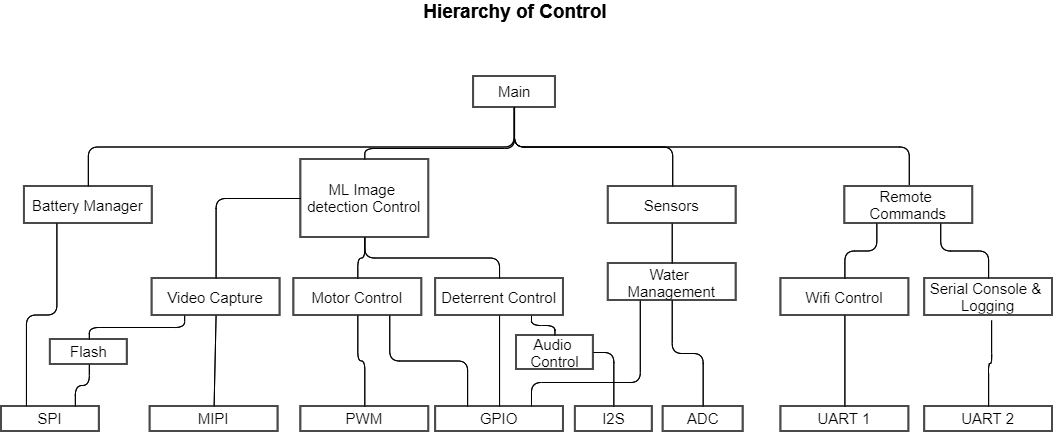
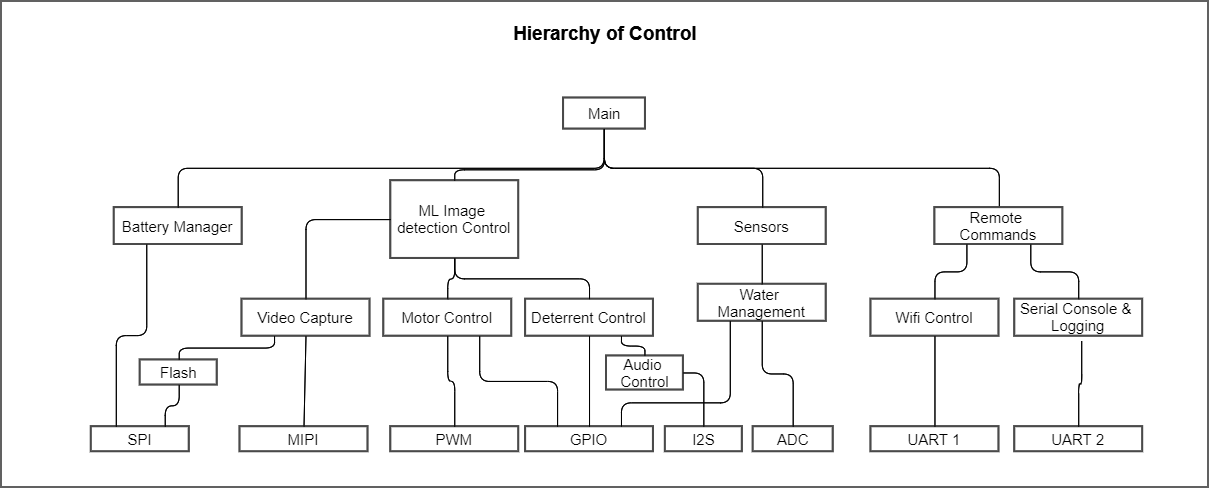
Added Border and centered Images

diff --git a/week-one/README.md b/week-one/README.md
@@ -24,7 +24,7 @@ The user can control the device from a device or web browser to either manually 
 
 <p align="center" >
 <kbd>
-<img  src="https://github.com/graeme-gets/making-embedded-projects/blob/main/week-one/Hardware-block-diagram.png">
+<img  src="https://github.com/graeme-gets/making-embedded-projects/blob/main/week-one/hardware-block-diagram.png">
 </kbd>
 </p>
 
@@ -34,7 +34,7 @@ The user can control the device from a device or web browser to either manually 
 
 <p align="center">
   <kbd>
-<img  src="https://github.com/graeme-gets/making-embedded-projects/blob/main/week-one/Software-block-diagram.png">
+<img  src="https://github.com/graeme-gets/making-embedded-projects/blob/main/week-one/software-block-diagram.png">
     </kbd>
 </p>
 
@@ -44,7 +44,7 @@ The user can control the device from a device or web browser to either manually 
 
 <p align="center">
   <kbd>
-<img src="https://github.com/graeme-gets/making-embedded-projects/blob/main/week-one/Hierarchy-of-control.png">
+<img src="https://github.com/graeme-gets/making-embedded-projects/blob/main/week-one/hierarchy-of-control.png">
     </kbd>
 </p>
 
@@ -54,7 +54,7 @@ The user can control the device from a device or web browser to either manually 
 
 <p align="center">
   <kbd>
-<img src="https://github.com/graeme-gets/making-embedded-projects/blob/main/week-one/Software-Layer-Diagram.png">
+<img src="https://github.com/graeme-gets/making-embedded-projects/blob/main/week-one/software-layer-diagram.png">
     </kbd>
 </p>
 
